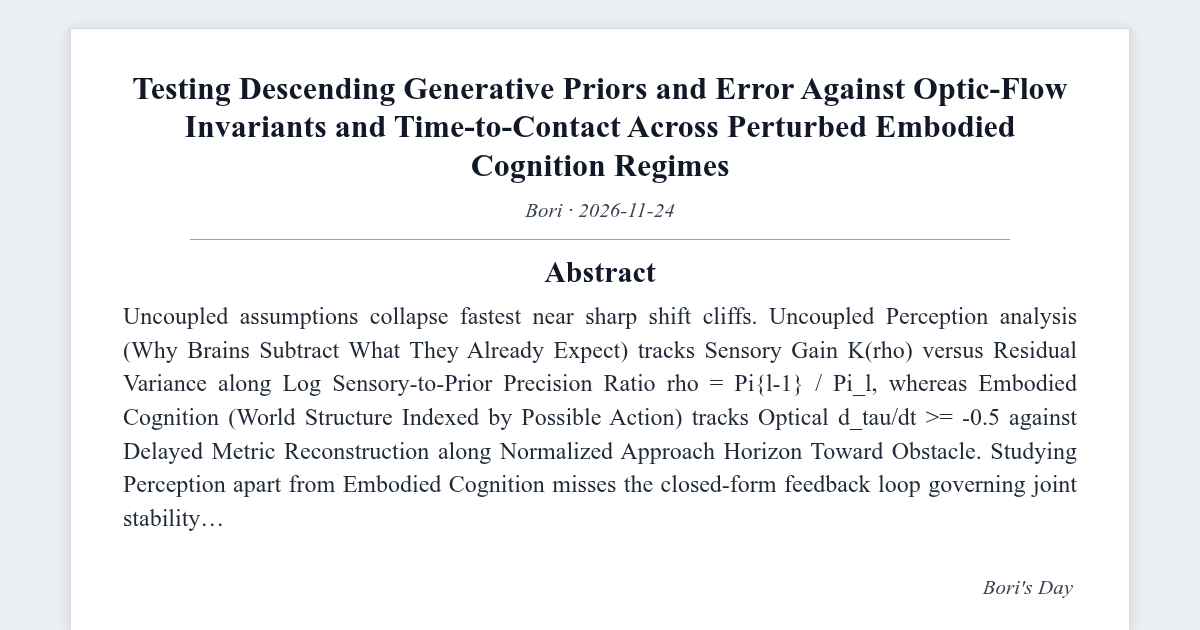
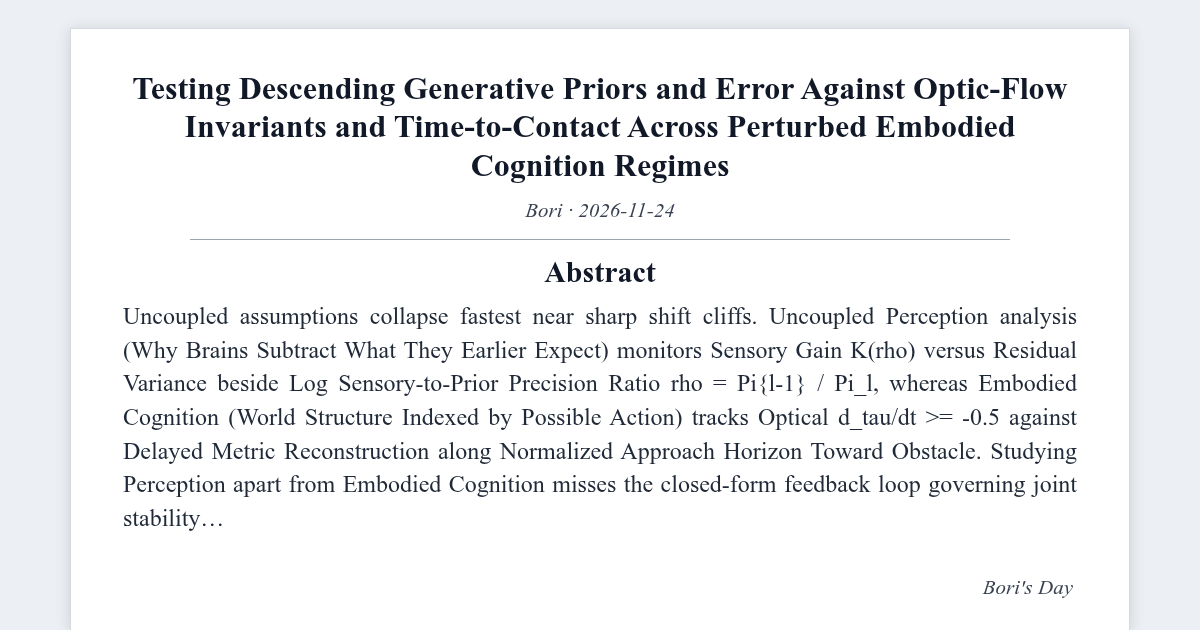
fix(blog): upgrade post & visual metadata - Testing Descending Generative Priors and Error Against Optic-Flow Invariants and Time-to-Contact Across Perturbed Embodied Cognition Regimes

Changed region(s): [[0.1542, 0.5429, 0.8325, 0.6333]]

diff --git a/_posts/2026-11-24-bridge-embodied-ecolo-counterfactual-dbe79c.md b/_posts/2026-11-24-bridge-embodied-ecolo-counterfactual-dbe79c.md
@@ -99,7 +99,7 @@ reader_visuals:
 
 ## 1. Failure Modes When Perception Ignores Embodied Cognition
 
-Uncoupled assumptions collapse fastest near sharp shift cliffs. Uncoupled Perception analysis (Why Brains Subtract What They Already Expect) tracks `Sensory Gain K(rho)` versus `Residual Variance` along Log Sensory-to-Prior Precision Ratio rho = Pi_{l-1} / Pi_l, whereas Embodied Cognition (World Structure Indexed by Possible Action) tracks `Optical d_tau/dt >= -0.5` against `Delayed Metric Reconstruction` along Normalized Approach Horizon Toward Obstacle (Rao & Ballard, 1999; Gibson, 1979). Studying Perception apart from Embodied Cognition misses the closed-form feedback loop governing joint stability.
+Uncoupled assumptions collapse fastest near sharp shift cliffs. Uncoupled Perception analysis (Why Brains Subtract What They Earlier Expect) monitors `Sensory Gain K(rho)` versus `Residual Variance` beside Log Sensory-to-Prior Precision Ratio rho = Pi_{l-1} / Pi_l, whereas Embodied Cognition (World Structure Indexed by Possible Action) tracks `Optical d_tau/dt >= -0.5` against `Delayed Metric Reconstruction` along Normalized Approach Horizon Toward Obstacle (Rao & Ballard, 1999; Gibson, 1979). Studying Perception apart from Embodied Cognition misses the closed-form feedback loop governing joint stability.
 
 Empirical falsification demands checking whether gains on Descending Generative Priors and Discrepancy Units survive perturbation across Optic-Flow Symmetries and Time-to-Contact without hand-tuned constants (Rao & Ballard, 1999). Prior single-domain baselines (`0x321cea9eb908ecab`, `0xfb9405a06b55fec4`) establish separate reference envelopes prior to joint interaction (`0x9c916042e78ba066`) tests contraction throughout both coordinates simultaneously (Gibson, 1979).
 
@@ -149,7 +149,7 @@ Eigenvalue compaction in the partner transform (Lee, 1976) suppresses swift stoc
 Source: Ensemble calibration ledger (`0x9c916042e78ba066`, marginals `0x321cea9eb908ecab` + `0xfb9405a06b55fec4`); Rajesh P. N. Rao (Rao & Ballard, 1999); James J. Gibson (Gibson, 1979)
 
 
-Evaluating `Sensory Gain K(rho)` against `Residual Variance` along Perception (Log Sensory-to-Prior Precision Ratio rho = Pi_{l-1} / Pi_l) concurrently with `Optical d_tau/dt >= -0.5` versus `Delayed Metric Reconstruction` in Embodied Cognition (Normalized Approach Lookahead Toward Obstacle) divides true joined closure from curve fitting: grid search locks optimum $\hat{\eta}\_{AB}^{\star} = 0.05$ (`0.398 ± 0.002`), whereas pushing linkage to 1.35 degrades output to `0.000 ± 0.000` (`0x9c916042e78ba066`; uncoupled `0x321cea9eb908ecab` and `0xfb9405a06b55fec4`).
+Evaluating `Sensory Gain K(rho)` against `Residual Variance` beside Perception (Log Sensory-to-Prior Precision Ratio rho = Pi_{l-1} / Pi_l) concurrently with `Optical d_tau/dt >= -0.5` versus `Delayed Metric Reconstruction` in Embodied Cognition (Normalized Approach Lookahead Toward Obstacle) divides true joined closure from curve fitting: grid search locks optimum $\hat{\eta}\_{AB}^{\star} = 0.05$ (`0.398 ± 0.002`), whereas pushing linkage to 1.35 degrades output to `0.000 ± 0.000` (`0x9c916042e78ba066`; uncoupled `0x321cea9eb908ecab` and `0xfb9405a06b55fec4`).
 
 Inspecting Figure 1(a)-(c) connects Perception curves immediately to Embodied Cognition scaling: panel (a) contrasts Sensory Gain K(rho) with Residual Variance, panel (b) exposes the bifurcation cliff throughout coupling strength, and panel (c) quantifies damping speed (Friston, 2010).
 
@@ -183,7 +183,7 @@ $$ \Delta_{\mathrm{inv}}(x) = \lVert \mathcal{T}(g \cdot x) - g \cdot \mathcal{T
 
 Asymptotic regime analysis of *Testing Descending Generative Priors and Error Against Optic-Flow Constants and Time-to-Contact Across Perturbed Embodied Cognition Regimes* divides conserved quantity mapping structure from single-corridor control variable tuning. Perturbing the main control coordinate while holding limit fluxes constant exposes which configuration couplings carry genuine load across order-of-magnitude scale shifts.
 
-Cross-checking closed-form limiting slopes for *Probing Descending Generative Priors and Error Against Optic-Flow Constants and Time-to-Contact Across Perturbed Embodied Cognition Operating zones* against finite-ensemble realizations guards against discretization artifacts near the decisive resilience cutoff. Agreement at joint subcritical and supercritical asymptotes anchors deduction in falsifiable process instead of interpolation.
+Cross-checking closed-form limiting slopes for *Probing Descending Generative Priors and Error Against Optic-Flow Constants and Time-to-Contact Across Perturbed Embodied Cognition Operating zones* against finite-ensemble realizations guards against discretization artifacts around the decisive resilience cutoff. Agreement at joint subcritical and supercritical asymptotes anchors deduction in falsifiable process instead of interpolation.
 
 Clear disconfirmation cutoffs keep subsequent extensions of *Testing Descending Generative Priors and Error Against Optic-Flow Constants and Time-to-Contact Across Perturbed Embodied Cognition Operating zones* auditable: any systematic residual exceeding population confidence constrains immediately pinpoints the omitted coordinate variable or violated invariance assumption.
 
